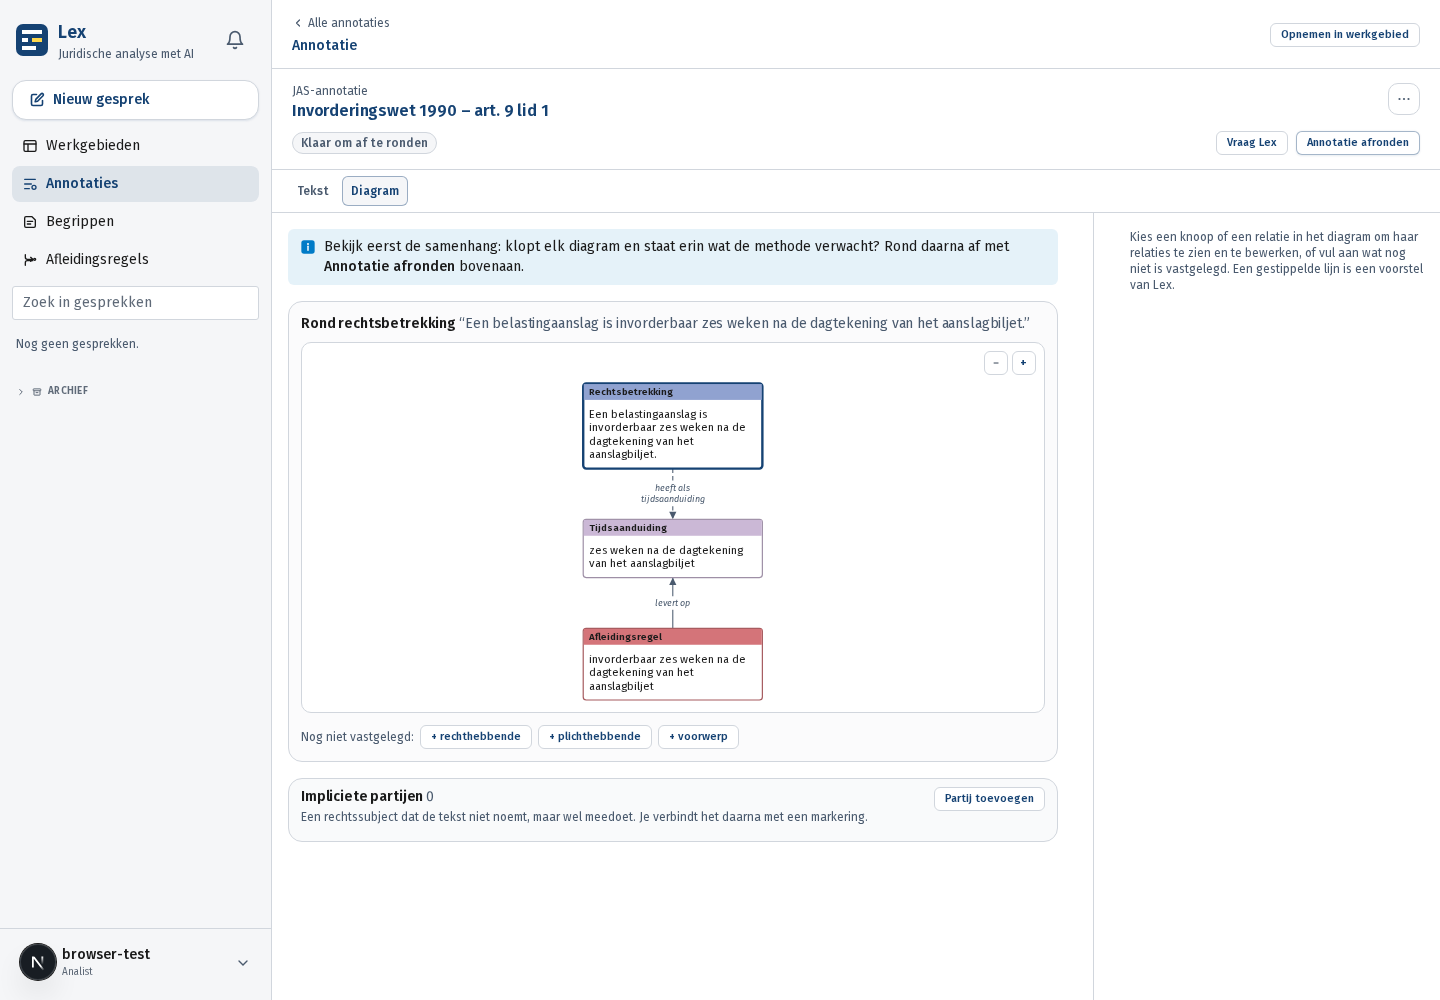
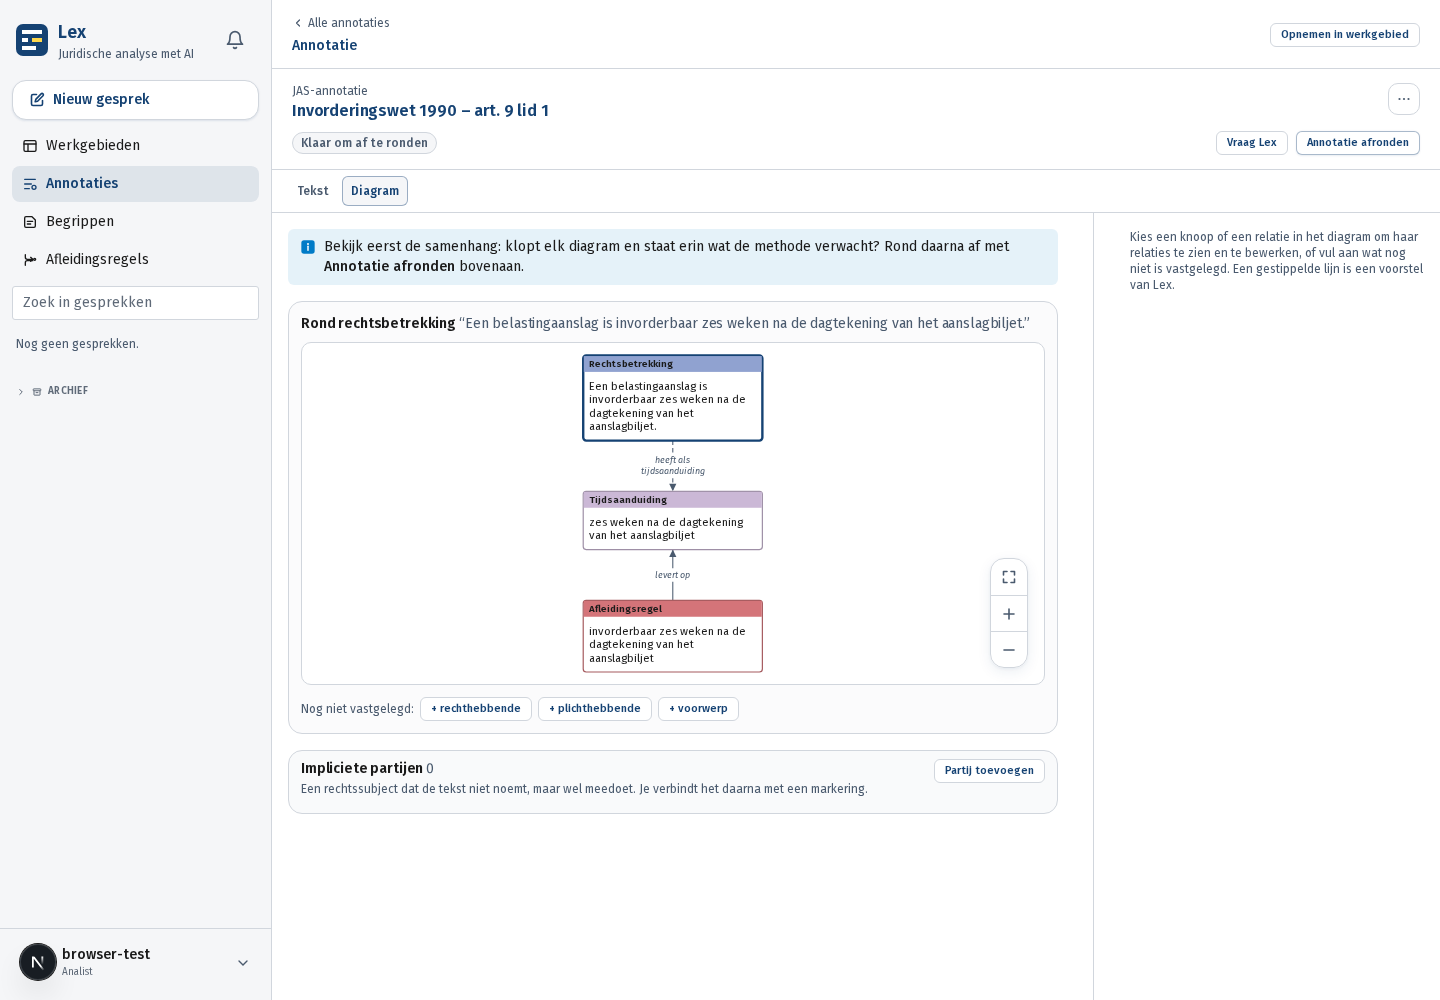
Diagram 2c: bediening als de graaf (muiswiel zoomt, slepen verschuift, knoppen rechtsonder)
Geen scrollbalken meer: het venster heeft de verhouding van de tekening, en zoomen/verschuiven veranderen
de viewBox. Het muiswiel zoomt rond de cursor; slepen verschuift altijd; rechtsonder GraafBeeld (Alles in
beeld, inzoomen, uitzoomen), hetzelfde component als in de graaf. Een klik zonder slepen kiest nog steeds.

Changed region(s): [[0.1875, 0.341, 0.5938, 0.837], [0.6562, 0.744, 0.7188, 0.806], [0.6875, 0.558, 0.7188, 0.62]]

diff --git a/frontend/components/annotaties/Diagram2c.tsx b/frontend/components/annotaties/Diagram2c.tsx
@@ -1,19 +1,24 @@
 "use client";
 
-import { useRef, useState } from "react";
+import { useCallback, useEffect, useRef, useState } from "react";
 
+import { GraafBeeld } from "@/components/graaf/GraafBeeld";
 import {
   MAAT, RAND_CENTRAAL, knoopKleuren, knoopSleutel, lijnNaam, pijlpunt, type DiagramData, type DiagramKnoop,
   type DiagramLijn,
 } from "@/lib/diagram2c";
 
+/** Wat in beeld is, in de eenheden van de tekening (de `viewBox`). */
+interface Beeld { x: number; y: number; b: number; h: number }
+
 /** Het 2c-diagram rond één centrale formulering (Handleiding §3.4c), getekend uit wat de api uitrekende: hetzelfde
  *  plaatje als in het werkgebiedrapport, maar met knopen en lijnen die je kunt kiezen. Kleur draagt nooit alleen: elke
  *  knoop noemt zijn klasse, elke lijn haar relatie; een voorstel is gestippeld, een impliciete partij ook (haar rand).
  *
- *  Zonder `onKiesKnoop` en `onKiesLijn` is het een plaatje. Standaard past de hele tekening in de breedte en groeit ze mee
- *  met het venster (`viewBox`); inzoomen (−, +, *Passend*) maakt haar breder dan haar kader, en dan schuif je erin: met de
- *  muis (vastpakken en slepen) of met de scrollbalk. Een klik zonder te slepen kiest nog steeds een knoop of lijn. */
+ *  De bediening is die van de graaf (melding gebruiker 24 nov 2026): het muiswiel zoomt rond de cursor, slepen verschuift,
+ *  en rechtsonder staan dezelfde knoppen (`GraafBeeld`: *Alles in beeld*, inzoomen, uitzoomen). Geen scrollbalken: het
+ *  venster heeft de verhouding van de tekening en zoomen verandert alleen wat erin te zien is. Een klik zonder slepen
+ *  kiest nog steeds een knoop of lijn. Zonder `onKiesKnoop` en `onKiesLijn` is het een plaatje. */
 export function Diagram2c({ data, gekozenKnoop, gekozenLijn, onKiesKnoop, onKiesLijn, label }: {
   data: DiagramData;
   /** `knoopSleutel` van de gekozen knoop. */
@@ -27,50 +32,79 @@ export function Diagram2c({ data, gekozenKnoop, gekozenLijn, onKiesKnoop, onKies
   const { diagram, plaatsing, lijnen } = data;
   const rand = 3;
   const kiesbaar = !!(onKiesKnoop || onKiesLijn);
-  const [zoom, setZoom] = useState(1);
-  const kader = useRef<HTMLDivElement>(null);
-  const sleep = useRef<{ x: number; y: number; links: number; boven: number; bewogen: boolean } | null>(null);
+  const alles: Beeld = { x: -rand, y: -rand, b: plaatsing.breedte + 2 * rand, h: plaatsing.hoogte + 2 * rand };
+  const [beeld, setBeeld] = useState<Beeld>(alles);
+  const sleutel = `${alles.b}x${alles.h}`;
+  // Een nieuwe tekening (na een besluit) begint weer met alles in beeld.
+  // eslint-disable-next-line react-hooks/set-state-in-effect
+  useEffect(() => setBeeld({ x: -rand, y: -rand, b: plaatsing.breedte + 2 * rand, h: plaatsing.hoogte + 2 * rand }), [sleutel]); // eslint-disable-line react-hooks/exhaustive-deps
+  const svg = useRef<SVGSVGElement>(null);
+  const sleep = useRef<{ x: number; y: number; beeld: Beeld; schaal: number; bewogen: boolean } | null>(null);
   const [sleept, setSleept] = useState(false);
-  const knop = "focus-ring flex h-6 min-w-6 items-center justify-center rounded-knop-xs border border-line bg-paper px-1.5 text-xs font-medium text-lint hover:bg-surface disabled:cursor-default disabled:text-faint";
+
+  /** Pixels per eenheid van de tekening, zoals ze nu in beeld is (de viewBox staat op `meet`). */
+  const schaal = useCallback(() => {
+    const r = svg.current?.getBoundingClientRect();
+    return r ? Math.min(r.width / beeld.b, r.height / beeld.h) : 1;
+  }, [beeld]);
+
+  /** Zoom met `factor` (< 1: inzoomen) rond een punt in de tekening; hoogstens 6× in, niet verder uit dan alles. */
+  const zoom = useCallback((factor: number, rond?: { x: number; y: number }) => {
+    setBeeld((v) => {
+      const b = Math.min(alles.b * 1.2, Math.max(alles.b / 6, v.b * factor));
+      const f = b / v.b;
+      const c = rond ?? { x: v.x + v.b / 2, y: v.y + v.h / 2 };
+      return { x: c.x - (c.x - v.x) * f, y: c.y - (c.y - v.y) * f, b, h: v.h * f };
+    });
+  }, [alles.b]);
+
+  // Het muiswiel zoomt rond de cursor. Een eigen luisteraar, niet `onWheel`: React registreert die passief, en dan scrolt
+  // de pagina mee.
+  useEffect(() => {
+    const el = svg.current;
+    if (!el) return;
+    const wiel = (e: WheelEvent) => {
+      e.preventDefault();
+      const r = el.getBoundingClientRect();
+      const s = Math.min(r.width / beeld.b, r.height / beeld.h);
+      // De tekening staat gecentreerd in het venster (`xMidYMid meet`).
+      const ox = (r.width - beeld.b * s) / 2, oy = (r.height - beeld.h * s) / 2;
+      const punt = { x: beeld.x + (e.clientX - r.left - ox) / s, y: beeld.y + (e.clientY - r.top - oy) / s };
+      zoom(Math.exp(e.deltaY * 0.0015), punt);
+    };
+    el.addEventListener("wheel", wiel, { passive: false });
+    return () => el.removeEventListener("wheel", wiel);
+  }, [beeld, zoom]);
+
   return (
-    <div data-diagram-zoom={zoom}>
-      {/* Boven de tekening, niet erover: anders dekt het een knoop af. */}
-      <div className="mb-1 flex justify-end gap-1" role="group" aria-label="Zoomen">
-        <button type="button" className={knop} aria-label="Uitzoomen" title="Uitzoomen" disabled={zoom <= 1}
-          onClick={() => setZoom((z) => vorigeZoom(z))}>−</button>
-        <button type="button" className={knop} aria-label="Inzoomen" title="Inzoomen" disabled={zoom >= ZOOM[ZOOM.length - 1]}
-          onClick={() => setZoom((z) => volgendeZoom(z))}>+</button>
-        {zoom > 1 && <button type="button" className={knop} onClick={() => setZoom(1)}>Passend</button>}
-      </div>
-      <div ref={kader} className={`overflow-auto ${zoom > 1 ? (sleept ? "cursor-grabbing" : "cursor-grab") : ""}`}
-        style={{ maxHeight: zoom > 1 ? "70vh" : undefined }} data-diagram-kader
-        // Vastpakken en slepen (alleen ingezoomd, alleen de muis: aanraken scrolt al vanzelf).
-        onPointerDown={(e) => {
-          if (zoom <= 1 || e.button !== 0 || e.pointerType !== "mouse" || !kader.current) return;
-          sleep.current = { x: e.clientX, y: e.clientY, links: kader.current.scrollLeft, boven: kader.current.scrollTop, bewogen: false };
-        }}
-        onPointerMove={(e) => {
-          const s = sleep.current;
-          if (!s || !kader.current) return;
-          const dx = e.clientX - s.x, dy = e.clientY - s.y;
-          if (!s.bewogen && Math.abs(dx) + Math.abs(dy) < 4) return;
-          if (!s.bewogen) { s.bewogen = true; setSleept(true); }
-          kader.current.scrollLeft = s.links - dx;
-          kader.current.scrollTop = s.boven - dy;
-        }}
-        onPointerUp={() => { if (sleep.current && !sleep.current.bewogen) sleep.current = null; }}
-        onPointerLeave={() => { if (sleep.current?.bewogen) { sleep.current = null; setSleept(false); } }}
-        // Na echt slepen is de klik die volgt geen keuze.
-        onClickCapture={(e) => {
-          if (sleep.current?.bewogen) { e.stopPropagation(); e.preventDefault(); }
-          sleep.current = null;
-          setSleept(false);
-        }}>
-    <svg role={kiesbaar ? "group" : "img"} aria-label={label} data-diagram-2c={diagram.centraal}
-      viewBox={`${-rand} ${-rand} ${plaatsing.breedte + 2 * rand} ${plaatsing.hoogte + 2 * rand}`}
-      className="block h-auto select-none"
-      // Passend: de hele tekening in de breedte van haar kader; ingezoomd breder, en dan schuift het kader.
-      style={{ fontFamily: "inherit", width: `${zoom * 100}%`, maxWidth: "none" }}>
+    <div className="relative" data-diagram-zoom={(alles.b / beeld.b).toFixed(2)}>
+    <svg ref={svg} role={kiesbaar ? "group" : "img"} aria-label={label} data-diagram-2c={diagram.centraal}
+      viewBox={`${beeld.x} ${beeld.y} ${beeld.b} ${beeld.h}`} preserveAspectRatio="xMidYMid meet"
+      className={`block w-full select-none touch-none ${sleept ? "cursor-grabbing" : "cursor-grab"}`}
+      // Het venster heeft de verhouding van de hele tekening, en wordt nooit hoger dan 60% van het scherm.
+      style={{ fontFamily: "inherit", aspectRatio: `${alles.b} / ${alles.h}`, maxHeight: "60vh", minHeight: "8rem" }}
+      onPointerDown={(e) => {
+        if (e.button !== 0) return;
+        sleep.current = { x: e.clientX, y: e.clientY, beeld, schaal: schaal(), bewogen: false };
+      }}
+      onPointerMove={(e) => {
+        const s = sleep.current;
+        if (!s) return;
+        const dx = e.clientX - s.x, dy = e.clientY - s.y;
+        if (!s.bewogen && Math.abs(dx) + Math.abs(dy) < 4) return;
+        if (!s.bewogen) { s.bewogen = true; setSleept(true); svg.current?.setPointerCapture?.(e.pointerId); }
+        setBeeld({ ...s.beeld, x: s.beeld.x - dx / s.schaal, y: s.beeld.y - dy / s.schaal });
+      }}
+      onPointerUp={(e) => {
+        if (sleep.current?.bewogen) svg.current?.releasePointerCapture?.(e.pointerId);
+        else sleep.current = null;
+        setSleept(false);
+      }}
+      // Na echt slepen is de klik die volgt geen keuze.
+      onClickCapture={(e) => {
+        if (sleep.current?.bewogen) { e.stopPropagation(); e.preventDefault(); }
+        sleep.current = null;
+      }}>
       {lijnen.map((l) => {
         const gekozen = !!gekozenLijn && l.relatie_id === gekozenLijn;
         const voorstel = l.lifecycle === "voorgesteld";
@@ -134,15 +168,13 @@ export function Diagram2c({ data, gekozenKnoop, gekozenLijn, onKiesKnoop, onKies
         );
       })}
     </svg>
+      {/* Dezelfde knoppen als de graaf, rechtsonder in het venster. */}
+      <div className="pointer-events-none absolute bottom-2 right-2 flex">
+        <GraafBeeld onPasIn={() => setBeeld(alles)} onZoom={(f) => zoom(f)} />
       </div>
     </div>
   );
 }
-
-/** De zoomstappen: 1 is passend. */
-const ZOOM = [1, 1.5, 2, 3, 4] as const;
-const volgendeZoom = (z: number) => ZOOM.find((s) => s > z) ?? z;
-const vorigeZoom = (z: number) => [...ZOOM].reverse().find((s) => s < z) ?? 1;
 
 let meetDoek: CanvasRenderingContext2D | null | undefined;
 

diff --git a/frontend/CLAUDE.md b/frontend/CLAUDE.md
@@ -168,8 +168,9 @@ stand komt uit `lib/herkomst.ts`.
   verdeling) het blok *Relaties* van die markering – verbinden, beoordelen en wissen gaan dus langs dezelfde weg als op de
   kaart; een ontbrekende rol (`ontbreekt_rollen`) opent *Verbind met…* met het type voorgekozen. *Annotatie afronden*
   opent eerst deze tab (één keer per paneel): na het afronden is een laag dicht en leg je geen relatie meer.
-  Passend past het diagram in de breedte; −, + en *Passend* zoomen, en ingezoomd pak je het met de muis vast en sleep je
-  (een klik zonder slepen kiest nog steeds). Smaller dan 56rem staat de keuze onder het diagram in één doorlopende
+  De bediening is die van de graaf: het muiswiel zoomt rond de cursor, slepen verschuift, rechtsonder `GraafBeeld` (*Alles
+  in beeld*, inzoomen, uitzoomen); geen scrollbalken, het venster heeft de verhouding van de tekening (hoogstens 60vh). Een
+  klik zonder slepen kiest nog steeds. Smaller dan 56rem staat de keuze onder het diagram in één doorlopende
   scroll (`TekstEnLijst smal="doorlopend"`), niet in twee vensters van 45/55. Het diagram volgt de weergave: elke nieuwe
   revisie van een laag (besluit, markering, relatie, heropenen) haalt het opnieuw op bij de api.
 
